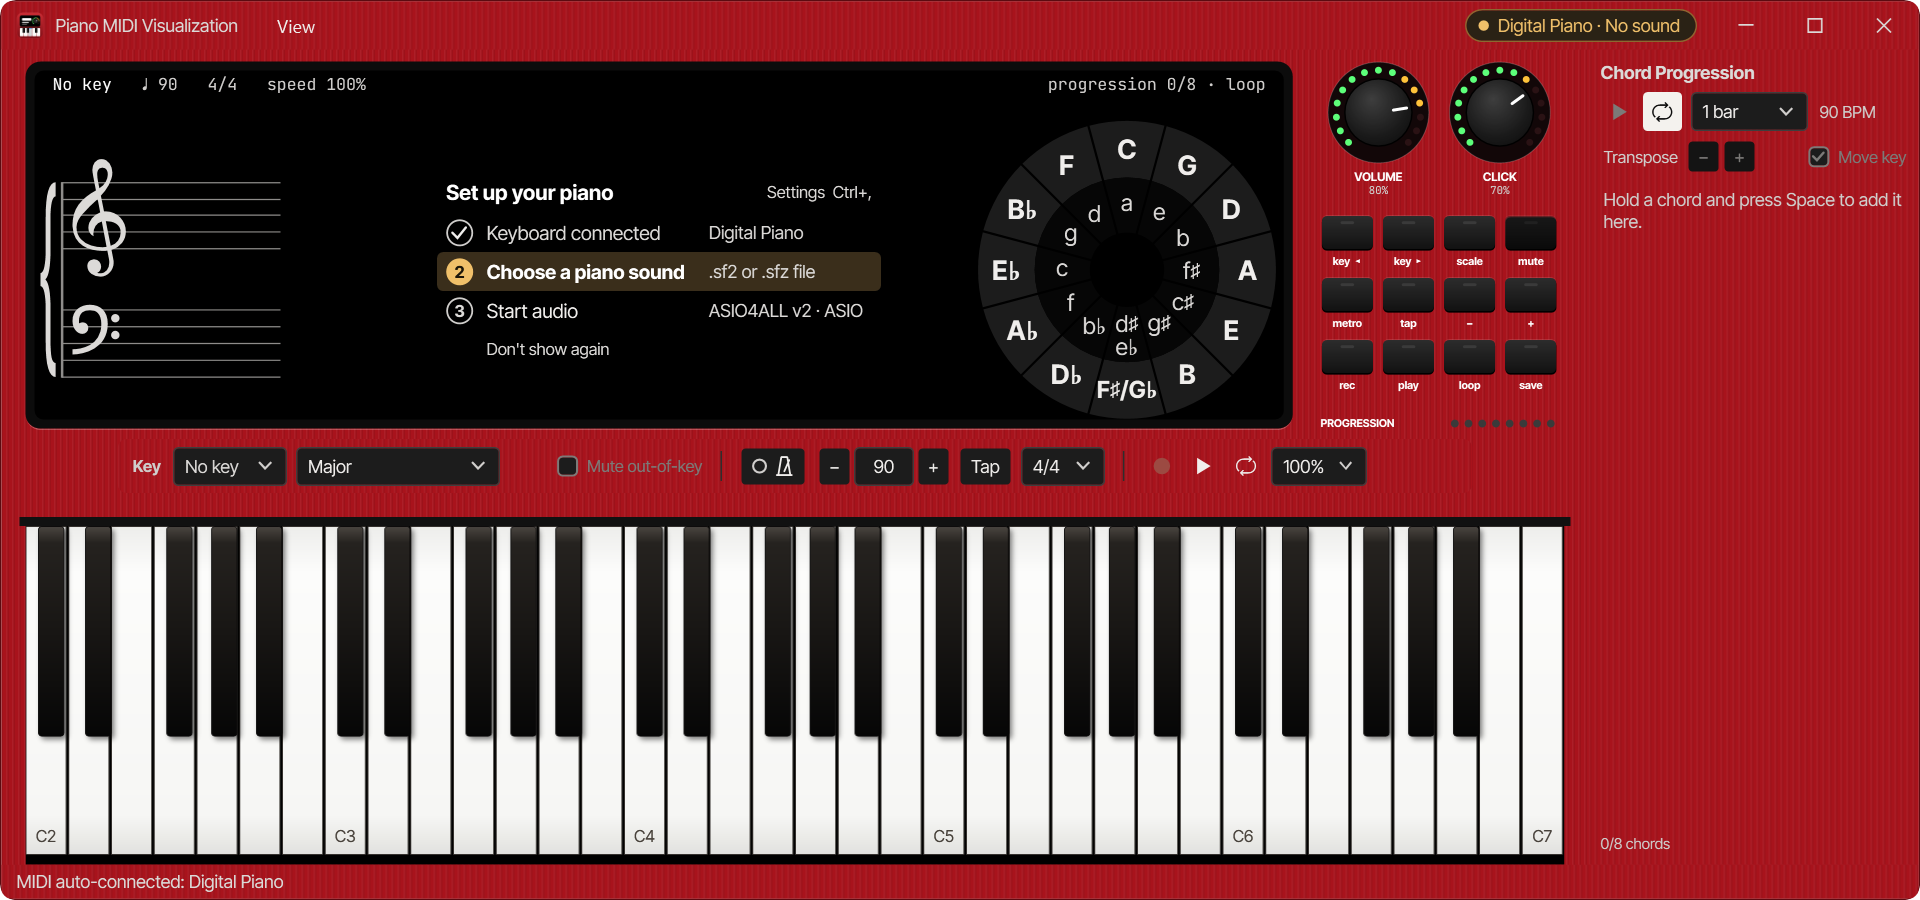
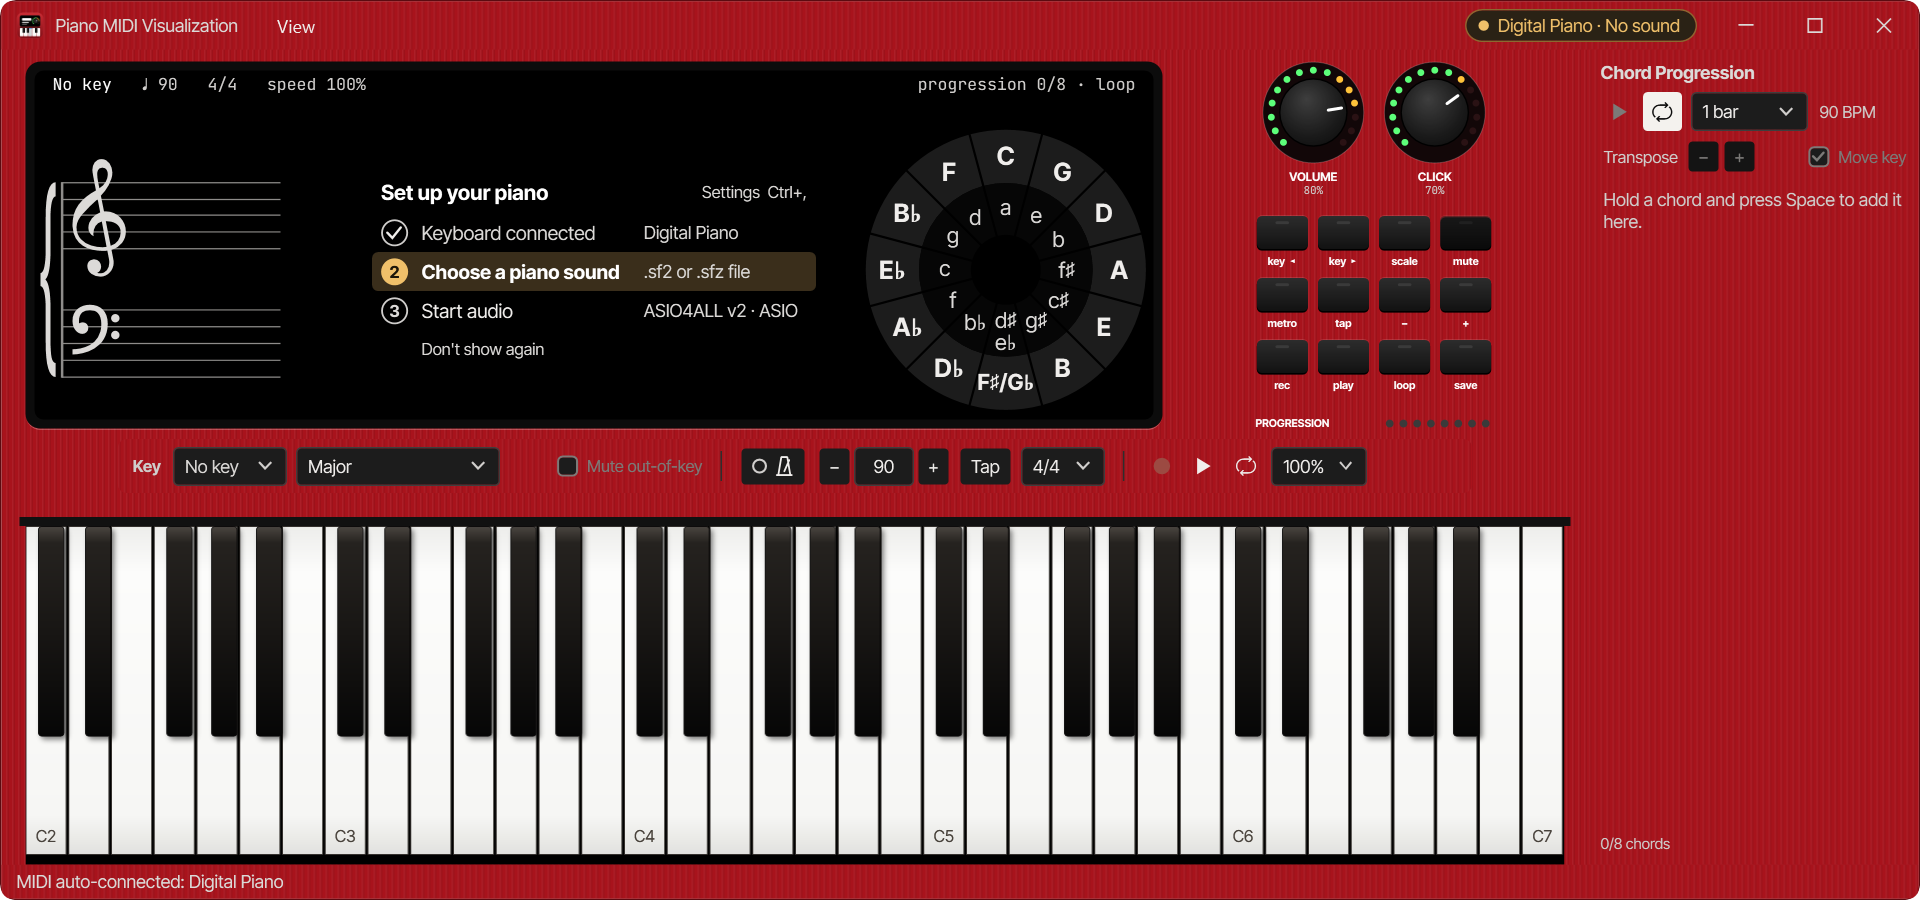
Keep the soft keys at 900x420, and fix the star row sizing to its content
A short stage now slims the soft keys and tightens the spacing instead of hiding them.
The real overflow came from the front panel's Auto column: a cell there spanning the
star readout row made WPF's Grid size that row to its content, so it stopped giving way
and the keyboard clipped. The column is now a pixel width set in code-behind.

Changed region(s): [[0.1875, 0.0622, 0.8125, 0.4978]]

diff --git a/piano/src/PianoMidiVisualizationApp/MainWindow.xaml b/piano/src/PianoMidiVisualizationApp/MainWindow.xaml
@@ -155,14 +155,18 @@
                          the Auto keyboard row would otherwise take everything and clip it.
                          The Viewbox scales down to whatever height is left. Trimmed from 170
                          to pay for the key selector without squeezing the keyboard at 900x420. -->
-                    <RowDefinition Height="*" MinHeight="120"/>   <!-- readout, or song practice -->
+                    <RowDefinition Height="*" MinHeight="110"/>   <!-- readout, or song practice -->
                     <RowDefinition Height="Auto"/>                <!-- diatonic chord strip -->
                     <RowDefinition Height="Auto"/>                <!-- practice toolbar -->
                     <RowDefinition Height="Auto"/>                <!-- keyboard -->
                 </Grid.RowDefinitions>
                 <Grid.ColumnDefinitions>
                     <ColumnDefinition Width="*"/>      <!-- the OLED window -->
-                    <ColumnDefinition Width="Auto"/>   <!-- the halo knobs beside it; zero when hidden -->
+                    <!-- The front panel beside it. A pixel width set from code-behind (zero while
+                         the panel is hidden), never Auto: an Auto column under a cell that spans
+                         the star row makes WPF size that row to its content, and the keyboard
+                         then clips at 900x420. -->
+                    <ColumnDefinition x:Name="FrontPanelColumn" Width="268"/>
                 </Grid.ColumnDefinitions>
 
                 <!-- The OLED window set into the scarlet panel: a black bezel with a lit lip,
@@ -175,8 +179,8 @@
                     <Border.Style>
                         <Style TargetType="Border">
                             <!-- While the chord strip shows, the bottom margin leaves its soft keys
-                                 on the panel below the window; a short stage folds them away
-                                 (IsCompact), and with no strip the window runs to the toolbar. -->
+                                 on the panel below the window (less on a short stage, where they
+                                 slim down: IsCompact); with no strip the window runs to the toolbar. -->
                             <Setter Property="Margin" Value="16,8,16,6"/>
                             <Style.Triggers>
                                 <MultiDataTrigger>
@@ -186,6 +190,15 @@
                                         <Condition Binding="{Binding IsCompact, RelativeSource={RelativeSource AncestorType=Window}}" Value="False"/>
                                     </MultiDataTrigger.Conditions>
                                     <Setter Property="Margin" Value="16,8,16,30"/>
+                                </MultiDataTrigger>
+                                <!-- Compact: the slimmer soft keys sit 14px up from the row's foot. -->
+                                <MultiDataTrigger>
+                                    <MultiDataTrigger.Conditions>
+                                        <Condition Binding="{Binding IsChordStripVisible}" Value="True"/>
+                                        <Condition Binding="{Binding ChordStrip.HasChords}" Value="True"/>
+                                        <Condition Binding="{Binding IsCompact, RelativeSource={RelativeSource AncestorType=Window}}" Value="True"/>
+                                    </MultiDataTrigger.Conditions>
+                                    <Setter Property="Margin" Value="16,8,16,14"/>
                                 </MultiDataTrigger>
                                 <DataTrigger Binding="{Binding IsSongPracticeVisible}" Value="True">
                                     <Setter Property="Visibility" Value="Collapsed"/>
@@ -200,11 +213,15 @@
                      progression on the right, as a hardware display's status bar reads. It
                      sits at the top of the readout row, which shrinks to fit, rather than in a
                      row of its own that would take height from the keyboard at 900x420. -->
-                <DockPanel Grid.Row="1" Margin="34,16,34,0" VerticalAlignment="Top" IsHitTestVisible="False"
+                <DockPanel Grid.Row="1" VerticalAlignment="Top" IsHitTestVisible="False"
                            TextElement.FontFamily="{StaticResource Font.Data}" TextElement.FontSize="11">
                     <DockPanel.Style>
                         <Style TargetType="DockPanel">
+                            <Setter Property="Margin" Value="34,16,34,0"/>
                             <Style.Triggers>
+                                <DataTrigger Binding="{Binding IsCompact, RelativeSource={RelativeSource AncestorType=Window}}" Value="True">
+                                    <Setter Property="Margin" Value="34,8,34,0"/>
+                                </DataTrigger>
                                 <DataTrigger Binding="{Binding IsSongPracticeVisible}" Value="True">
                                     <Setter Property="Visibility" Value="Collapsed"/>
                                 </DataTrigger>
@@ -236,7 +253,7 @@
                      shortcut for something the toolbar or a shortcut also does. Shrinks on a
                      short window; hidden in song practice (the lane needs the full width) and in
                      zen mode, which keeps only the window and the keys. -->
-                <Viewbox Grid.Row="0" Grid.RowSpan="3" Grid.Column="1" Margin="0,8,18,6"
+                <Viewbox x:Name="FrontPanel" Grid.Row="0" Grid.RowSpan="3" Grid.Column="1" Margin="0,8,18,6"
                          Stretch="Uniform" StretchDirection="DownOnly" VerticalAlignment="Center">
                     <Viewbox.Style>
                         <Style TargetType="Viewbox">
@@ -468,11 +485,17 @@
                      the readout leaves, so it stays centred whichever side panels are shown. Each
                      side panel should hug its outer edge: its column's width changes with the
                      chord name's length, and a panel centred in it would slide as you played. -->
-                <Grid Grid.Row="1" Margin="10,34,10,0">
-                    <!-- Song practice takes this row over, hiding all three columns together. -->
+                <Grid Grid.Row="1">
+                    <!-- Song practice takes this row over, hiding all three columns together. The
+                         top margin clears the OLED's status line; a short stage tightens both,
+                         since this row's height is its content's, and it is what overflows. -->
                     <Grid.Style>
                         <Style TargetType="Grid">
+                            <Setter Property="Margin" Value="10,34,10,0"/>
                             <Style.Triggers>
+                                <DataTrigger Binding="{Binding IsCompact, RelativeSource={RelativeSource AncestorType=Window}}" Value="True">
+                                    <Setter Property="Margin" Value="10,22,10,0"/>
+                                </DataTrigger>
                                 <DataTrigger Binding="{Binding IsSongPracticeVisible}" Value="True">
                                     <Setter Property="Visibility" Value="Collapsed"/>
                                 </DataTrigger>
@@ -723,7 +746,7 @@
                             <Setter Property="Margin" Value="28,0,28,8"/>
                             <Style.Triggers>
                                 <DataTrigger Binding="{Binding IsCompact, RelativeSource={RelativeSource AncestorType=Window}}" Value="True">
-                                    <Setter Property="Margin" Value="28,0,28,16"/>
+                                    <Setter Property="Margin" Value="28,0,28,4"/>
                                 </DataTrigger>
                                 <MultiDataTrigger>
                                     <MultiDataTrigger.Conditions>
@@ -767,6 +790,12 @@
                             <Setter Property="Padding" Value="10,5"/>
                             <Setter Property="Background" Value="{StaticResource Brush.Surface}"/>
                             <Style.Triggers>
+                                <!-- A short stage tightens the spacing so the soft keys fit. Before
+                                     the song-practice trigger, which wins when both apply. -->
+                                <DataTrigger Binding="{Binding IsCompact, RelativeSource={RelativeSource AncestorType=Window}}" Value="True">
+                                    <Setter Property="Margin" Value="0,0,0,2"/>
+                                    <Setter Property="Padding" Value="10,3"/>
+                                </DataTrigger>
                                 <DataTrigger Binding="{Binding IsZenMode}" Value="True">
                                     <Setter Property="Visibility" Value="Collapsed"/>
                                 </DataTrigger>
@@ -1005,11 +1034,15 @@
                      margin, the falling notes' hit line is exactly the keys' top edge. -->
                 <!-- The felt strip the keys sit behind, across the panel. Not in song practice,
                      where the lane's bottom edge has to be the keys' top edge. -->
-                <Rectangle Grid.Row="4" Grid.ColumnSpan="2" Height="6" VerticalAlignment="Top" Margin="12,10,12,0"
+                <Rectangle Grid.Row="4" Grid.ColumnSpan="2" Height="6" VerticalAlignment="Top"
                            Fill="{StaticResource Brush.Felt}" IsHitTestVisible="False">
                     <Rectangle.Style>
                         <Style TargetType="Rectangle">
+                            <Setter Property="Margin" Value="12,10,12,0"/>
                             <Style.Triggers>
+                                <DataTrigger Binding="{Binding IsCompact, RelativeSource={RelativeSource AncestorType=Window}}" Value="True">
+                                    <Setter Property="Margin" Value="12,2,12,0"/>
+                                </DataTrigger>
                                 <DataTrigger Binding="{Binding IsSongPracticeVisible}" Value="True">
                                     <Setter Property="Visibility" Value="Collapsed"/>
                                 </DataTrigger>
@@ -1024,6 +1057,9 @@
                         <Style TargetType="Viewbox">
                             <Setter Property="Margin" Value="16,16,16,0"/>
                             <Style.Triggers>
+                                <DataTrigger Binding="{Binding IsCompact, RelativeSource={RelativeSource AncestorType=Window}}" Value="True">
+                                    <Setter Property="Margin" Value="16,8,16,0"/>
+                                </DataTrigger>
                                 <DataTrigger Binding="{Binding IsSongPracticeVisible}" Value="True">
                                     <Setter Property="Margin" Value="16,0"/>
                                 </DataTrigger>

diff --git a/piano/src/PianoMidiVisualizationApp/Themes/Dark.xaml b/piano/src/PianoMidiVisualizationApp/Themes/Dark.xaml
@@ -716,10 +716,13 @@
         <Setter Property="BorderThickness" Value="0,1,0,2"/>
         <Setter Property="SnapsToDevicePixels" Value="True"/>
         <Style.Triggers>
-            <!-- A short stage (MainWindow.IsCompact) folds the soft keys away: their 34px is
-                 what the keyboard needs at 900x420. The labels still click. -->
+            <!-- A short stage (MainWindow.IsCompact) keeps the soft keys but makes them slimmer
+                 and closer: 8px keys 10px below the labels, 18px less than the full size,
+                 which is what the keyboard needs at 900x420. -->
             <DataTrigger Binding="{Binding IsCompact, RelativeSource={RelativeSource AncestorType=Window}}" Value="True">
-                <Setter Property="Visibility" Value="Collapsed"/>
+                <Setter Property="Height" Value="8"/>
+                <Setter Property="Margin" Value="3,10,3,0"/>
+                <Setter Property="BorderThickness" Value="0,1,0,1"/>
             </DataTrigger>
         </Style.Triggers>
     </Style>
@@ -754,7 +757,11 @@
                             <Setter Property="Foreground" Value="{StaticResource Brush.On.Ink}"/>
                         </Trigger>
                         <Trigger Property="IsPressed" Value="True">
-                            <Setter TargetName="Key" Property="Margin" Value="3,19,3,-1"/>
+                            <Setter TargetName="Key" Property="RenderTransform">
+                                <Setter.Value>
+                                    <TranslateTransform Y="1"/>
+                                </Setter.Value>
+                            </Setter>
                         </Trigger>
                     </ControlTemplate.Triggers>
                 </ControlTemplate>
@@ -794,7 +801,11 @@
                     </StackPanel>
                     <ControlTemplate.Triggers>
                         <Trigger Property="IsPressed" Value="True">
-                            <Setter TargetName="Key" Property="Margin" Value="3,19,3,-1"/>
+                            <Setter TargetName="Key" Property="RenderTransform">
+                                <Setter.Value>
+                                    <TranslateTransform Y="1"/>
+                                </Setter.Value>
+                            </Setter>
                         </Trigger>
                     </ControlTemplate.Triggers>
                 </ControlTemplate>

diff --git a/piano/src/PianoMidiVisualizationApp/MainWindow.xaml.cs b/piano/src/PianoMidiVisualizationApp/MainWindow.xaml.cs
@@ -45,8 +45,28 @@ public partial class MainWindow : Window
         InitializeComponent();
         Loaded += OnLoaded;
         WindowFrame.SizeChanged += (_, _) => UpdateWindowClip();
-        Stage.SizeChanged += (_, _) => IsCompact = Stage.ActualHeight < CompactStageHeight;
+        Stage.SizeChanged += (_, _) =>
+        {
+            IsCompact = Stage.ActualHeight < CompactStageHeight;
+            UpdateFrontPanelColumn();
+        };
+        FrontPanel.IsVisibleChanged += (_, _) => UpdateFrontPanelColumn();
         StateChanged += (_, _) => UpdateWindowClip();
+    }
+
+    /// <summary>The front panel's width at full size (250 plus its 18px right margin), and on a short stage.</summary>
+    private const double FrontPanelWidth = 268, CompactFrontPanelWidth = 170;
+
+    /// <summary>
+    /// Sizes the front panel's column in pixels: full width, narrower on a short stage (the
+    /// panel scales down there anyway), nothing while it is hidden. See the column's comment
+    /// in MainWindow.xaml for why it can't simply be Auto.
+    /// </summary>
+    private void UpdateFrontPanelColumn()
+    {
+        double width = FrontPanel.Visibility != Visibility.Visible ? 0
+            : IsCompact ? CompactFrontPanelWidth : FrontPanelWidth;
+        FrontPanelColumn.Width = new GridLength(width);
     }
 
     /// <summary>

diff --git a/piano/DESIGN.md b/piano/DESIGN.md
@@ -222,7 +222,9 @@ Both are SIL OFL 1.1 (THIRD-PARTY-NOTICES.txt), and their pack URIs are assembly
 
 A single fixed-structure window, minimum 900x420, default 1400x620, with 10px rounded corners: the window is transparent and `WindowFrame`, a border with the panel brush and a darker rim (`Brush.Window.Rim`), is clipped to a rounded rectangle in code-behind (square while maximised). Rows: a 32px title bar on the panel; the stage; then the recorder, MIDI log, AI chat and status bar as collapsible rows. The stage's left column has two columns of its own: the OLED window (star width) and the halo knobs (Auto, so it takes no room when they hide). The OLED window spans the stage's first three rows (practice toolbar, readout, chord strip), inset 16px from the panel edges with a 6px bezel. The practice toolbar and the keyboard span both columns below it. The chord-progression sidebar is a fixed 220px column on the panel.
 
-The OLED's status line sits at the top of the readout row, not in a row of its own, so it shrinks with the readout. While the chord strip shows, the window stops 30px short of the strip's row bottom so the soft keys sit on the panel below its bezel. On a short stage (under 480px, `MainWindow.IsCompact`) the soft keys fold away and the window runs to the strip again: the stage has only ~24px to spare at 900x420, and the keyboard clips rather than shrinks.
+The OLED's status line sits at the top of the readout row, not in a row of its own, so it shrinks with the readout. While the chord strip shows, the window stops 30px short of the strip's row bottom so the soft keys sit on the panel below its bezel. On a short stage (under 480px, `MainWindow.IsCompact`) everything stays but tightens: the soft keys slim to 8px, 10px under their labels, the window stops 14px short of the row, and the status line, the readout's top margin, the toolbar's and the keyboard's spacing all close up. The stage has only ~24px to spare at 900x420, and the keyboard clips rather than shrinks.
+
+The front panel's column is a pixel width set in code-behind (268, 170 when compact, 0 while hidden), never Auto: a cell in an Auto column that spans the star row, alongside cells in Auto rows of the star column, makes WPF's Grid size that star row to its content, which pushed the keyboard off the bottom.
 
 Song practice hides the OLED window and the panel, and drops the felt strip, so the falling-notes lane runs edge to edge and its bottom is the keys' top edge. Zen mode keeps the window and the keys and hides the knobs.
 
@@ -266,7 +268,7 @@ Piano character's ivory keytops and beveled ebony sharps with its amber key-cent
 Twelve 52x34 black rubber keys in a 4x3 grid under the knobs, in K's order: key ◂, key ▸ (a step down or up the circle of fifths), scale (the next scale on the same tonic), mute (out-of-key), metro, tap, − and + (tempo), rec, play and loop (the selected take), save. Each has a 2px black skirt, a lit top edge, an LED bar set into its top (`Style.PanelLed`) and a lowercase legend under it (`Style.PanelLegend`). An LED lights white for a state that is on (mute, metronome, playing, looping), red while recording is armed, and amber on save while there is a chord to save. Under the grid, PROGRESSION and eight LEDs lit for each saved chord. Never focusable; every key does something the toolbar, a shortcut or a menu also does.
 
 ### Diatonic Chord Strip (signature)
-Soft keys: each tile is a 22px black rubber label on the OLED's bottom edge, Legend Tertiary text with a white SemiBold numeral, and under it, 18px lower and past the bezel, a 16px physical key (`Style.SoftKeyCap`) that dips when pressed; the whole column is one button. The played tile's label turns white with Ink for both name and numeral (`Brush.ChordTile.PlayedInk`). A hovered tile takes a magenta outline. The 7ths switch is a soft key too (`Style.SoftKeyToggle`), white with Ink while on. Never focusable.
+Soft keys: each tile is a 22px black rubber label on the OLED's bottom edge, Legend Tertiary text with a white SemiBold numeral, and under it, 18px lower and past the bezel, a 16px physical key (`Style.SoftKeyCap`; 8px and 10px lower on a short stage) that dips 1px when pressed; the whole column is one button. The played tile's label turns white with Ink for both name and numeral (`Brush.ChordTile.PlayedInk`). A hovered tile takes a magenta outline. The 7ths switch is a soft key too (`Style.SoftKeyToggle`), white with Ink while on. Never focusable.
 
 ### App Icon
 `app.ico` (16 to 256px) and `app.png` (the title bar's 18px image): the panel in miniature. A scarlet tile with a black OLED window showing a white chord bar and a lit halo knob, over real white and black keys with one held key lit blue. Drawn by script, with the grain and the small text lines dropped below 32px.
